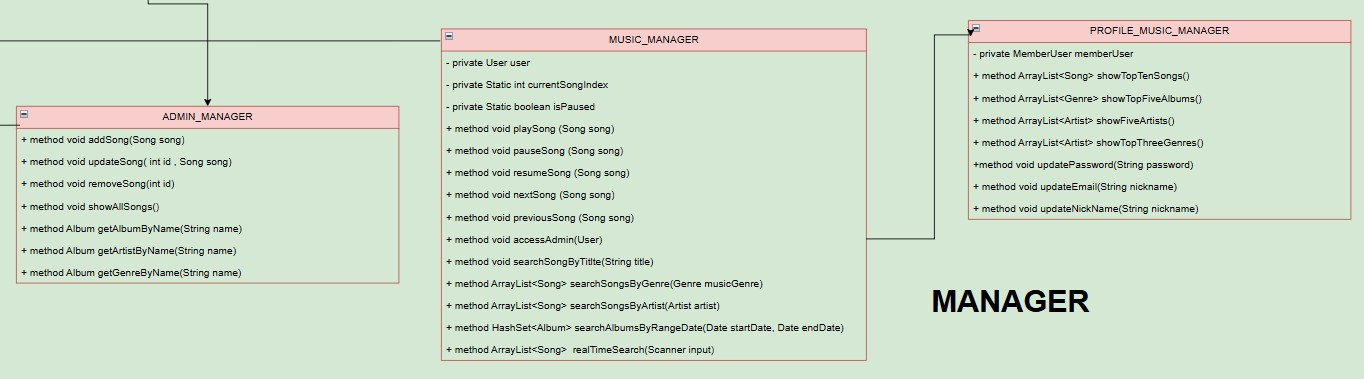
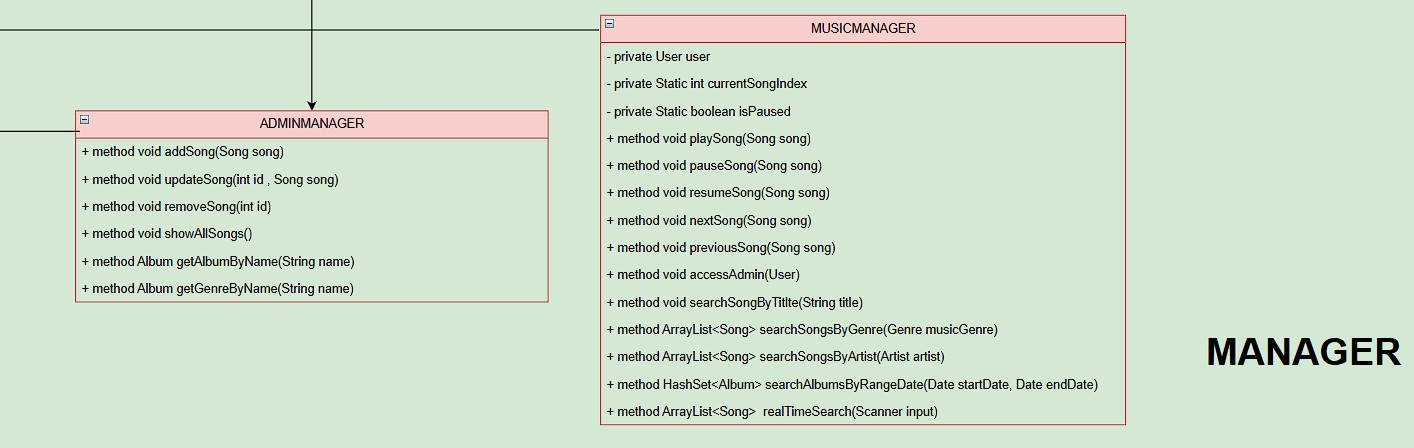
Final commit for the 2nd iteration of the SCRUM Project (code cleanup and readme updated).

diff --git a/src/ui/UI.java b/src/ui/UI.java
@@ -8,7 +8,6 @@ import data.DataSongs;
 import management.MusicManager;
 import management.AdminManager;
 import model.song.Album;
-import model.song.Artist;
 import model.song.Genre;
 import model.song.Song;
 import model.user.GuestUser;
@@ -90,7 +89,6 @@ public class UI {
     }
 
 
-    //Works
     private void addNewUser(Scanner sc, Authentication auth) {
         System.out.println("Enter user type (admin/member): ");
         String userType = sc.next().toLowerCase();
@@ -141,7 +139,6 @@ public class UI {
         return new GuestUser();
     }
 
-    //Works
     public void mainLevel(Scanner sc, Authentication auth, MusicManager musicManager, AdminManager adminManager) {
         boolean loop = true;
         while (loop) {
@@ -149,11 +146,9 @@ public class UI {
             int choice = sc.nextInt();
             switch (choice) {
                 case 1:
-                    //Works!
                     addNewUser(sc, auth);
                     break;
                 case 2:
-                    //Works!!
                     User user = loginInput(sc, auth);
                     if (user instanceof AdminUser) {
                         adminMenu(sc, adminManager);
@@ -162,7 +157,6 @@ public class UI {
                     }
                     break;
                 case 3:
-                    //Works!!
                     User userGuest = loginGuestInput();
                     secondLevel(sc, musicManager, userGuest);
                     break;
@@ -177,7 +171,7 @@ public class UI {
     }
 
 
-    private Song creatNewSong(Scanner sc, AdminManager adminManager) {
+    private Song createNewSong(Scanner sc, AdminManager adminManager) {
         sc.nextLine();
         System.out.print("Enter Title: ");
         var titleSong = sc.nextLine();
@@ -203,11 +197,11 @@ public class UI {
             switch (choice) {
                 case 1:
                     System.out.println("============Add Song==============");
-                    adminManager.addSong(creatNewSong(sc, adminManager));
+                    adminManager.addSong(createNewSong(sc, adminManager));
                     break;
                 case 2:
                     System.out.println("============Update Song==============");
-                    adminManager.updateSong(enterId(sc), creatNewSong(sc, adminManager));
+                    adminManager.updateSong(enterId(sc), createNewSong(sc, adminManager));
                     break;
                 case 3:
                     sc.nextLine();

diff --git a/src/auth/Authentication.java b/src/auth/Authentication.java
@@ -9,7 +9,7 @@ public class Authentication {
     private HashMap<Integer,User> users;
 
     public Authentication() {
-        users = new HashMap<Integer,User>();
+        users = new HashMap<>();
     }
 
     public void register(User user){
@@ -62,31 +62,4 @@ public class Authentication {
         }
         return newUser.toString();
     }
-
-    public static void main(String[] args) {
-        /*
-    }       Authentication auth = new Authentication();
-        //Email Fail
-        auth.register(new MemberUser("Steven", LocalDate.now(),"usuario123dominio.com", "Pass1234","12345678L"));
-        System.out.println(auth.users);
-        //Password Fail
-        auth.register(new MemberUser("Steven", LocalDate.now(),"usuario123@dominio.com", "Pass1234asdasd","12345678L"));
-        System.out.println(auth.users);
-        //DNI fail
-        auth.register(new MemberUser("Steven", LocalDate.now(),"usuario123@dominio.com", "Pass1234","12345678l"));
-        System.out.println(auth.users);
-
-        //Correct Register
-        User dummy = new MemberUser("Steven", LocalDate.now(),"nystepro@gmail.com", "Pass1234","12345678L");
-        auth.register(dummy);
-        System.out.println(auth.users);
-
-        //Invalid Login
-//        auth.login(dummy.getNickName(), "Pass1234asdasdsa");
-
-        //Correct Login
-        System.out.println(auth.login(dummy.getNickName(), "Pass1234"));
-*/
-    }
-
 }

diff --git a/src/TestMusicApp.java b/src/TestMusicApp.java
@@ -8,7 +8,7 @@ import ui.UI;
 import java.time.LocalDate;
 import java.util.Scanner;
 
-public class TestAppMusic {
+public class TestMusicApp {
     public static void main(String[] args) {
         Scanner sc = new Scanner(System.in);
         Authentication auth = new Authentication();
@@ -19,6 +19,8 @@ public class TestAppMusic {
 
         auth.register(new MemberUser("Steven", LocalDate.now(), "nystepro@gmail.com", "123456Aa", "54910978L", "XD"));
         auth.register(new AdminUser("Theo", LocalDate.now(), "theo@gmail.com", "123456Aa", "34352323S", "XD2"));
+        auth.register(new MemberUser("Julia", LocalDate.now(), "julia@gmail.com", "123456Aa", "35487659A", "XD3"));
+        auth.register(new AdminUser("Melina", LocalDate.now(), "melina@gmail.com", "123456Aa", "87465780W", "XD4"));
 
         ui.mainLevel(sc, auth, manager, adminManager);
 

diff --git a/src/management/AdminManager.java b/src/management/AdminManager.java
@@ -40,15 +40,6 @@ public class AdminManager {
         return null;
     }
 
-    public Artist getArtistByName(String name){
-        for (Artist artist: DataSongs.getInstance().getArtists()){
-            if (artist.getName().equals(name)){
-                return artist;
-            }
-        }
-        return null;
-    }
-
     public Genre getGenreByName(String name){
         for (Genre genre: DataSongs.getInstance().getGenres()){
             if (genre.getName().equals(name)){

diff --git a/Readme.md b/Readme.md
@@ -41,41 +41,39 @@ Additionally, data science techniques will be applied to analyze patterns in use
 
 #### MusicManager
 
-| Feature                | Description                                | Status   | Developer |
-|------------------------|--------------------------------------------|----------|-----------|
-| Access Admin Interface | Access member user to yourself profile     | Done     | Steven    |
-| Validate Song          | Validate song                              | Done     | Melina    |
-| Play Song              | Play song                                  | Done     | Melina    |
-| Pause Song             | Pause song                                 | Done     | Melina    |
-| Resume Song            | Resume song                                | Done     | Melina    |
-| Next Song              | Next song                                  | Done     | Melina    |
-| Previous Song          | Previous song                              | Done     | Melina    |
-| Search Song by Title   | Search by Title and return a Song          | Done     | Melina    |
-| Shows Songs By Genre   | Search by Genre and return a list of songs | Done     | Melina    |
-| Search By Artist       | Search by Artist and return a Songs        | Done     | Melina    |
-| Search By Release      | Search by range date and return Albums     | Done     | Melina    |
-| Real Time Search       | Search by different parameters             | to be Do | Steven    |
+| Feature                | Description                                | Status | Developer |
+|------------------------|--------------------------------------------|--|-----------|
+| Access Admin Interface | Access member user to yourself profile     | Done | Steven    |
+| Validate Song          | Validate song                              | Done | Melina    |
+| Play Song              | Play song                                  | Done | Melina    |
+| Pause Song             | Pause song                                 | Done | Melina    |
+| Resume Song            | Resume song                                | Done | Melina    |
+| Next Song              | Next song                                  | Done | Melina    |
+| Previous Song          | Previous song                              | Done | Melina    |
+| Search Song by Title   | Search by Title and return a Song          | Done | Melina    |
+| Shows Songs By Genre   | Search by Genre and return a list of songs | Done | Melina    |
+| Search By Artist       | Search by Artist and return a Songs        | Done | Melina    |
+| Search By Release      | Search by range date and return Albums     | Done | Melina    |
+| Real Time Search       | Search by different parameters             | Done | Steven    |
 
 #### MemberProfileManager
 
-| Feature              | Description                      | Status   | Developer |
-|----------------------|----------------------------------|----------|-----------|
-| Show Profile         | Show your Profile                | Done     |           |
-| Show Top Ten Song    | The top Ten Songs                | Done     |           |
-| Show Top three Genre | The Genres most heading for User | to be Do |           |
-| Show Top Artist      | The Artist Most heading for User | to be Do |           |
-| update nickname      | Updated nickname                 | Done     |           |
-| update password      | Updated password                 | Done     |           |
-| update email         | Updated email                    | Done     |           | 
+| Feature               | Description                                                                 | Status | Developer |
+|-----------------------|-----------------------------------------------------------------------------|--|--------|
+| Show Profile          | Show your Profile                                                           | Done | Theo   |
+| Show Favorite Songs   | Provides a list of all your listened songs ordered by the amount of plays   | Done | Theo   |
+| Show Favorite Albums  | Provides a list of all your listened albums ordered by the amount of plays  | Done | Theo   |
+| Show Favorite Artists | Provides a list of all your listened artists ordered by the amount of plays | Done | Theo   |
+| Show Favorite Genres  | Provides a list of all your listened genres ordered by the amount of plays  | Done | Theo   | 
 
 ### 3. Songs
 ![Songs](img/songs.jpg)
 
 #### Song
 
-| Feature           | Description                         | Status | Developer |
-|-------------------|-------------------------------------|--------|-----------|
-| Song Class        | To Make Class Song with composition | Done   |           |
+| Feature           | Description                         | Status | Developer     |
+|-------------------|-------------------------------------|--------|---------------|
+| Song Class        | To Make Class Song with composition | Done   | Steven & Theo |
 
 ### 4. DATA
 ![Data](img/data.jpg)
